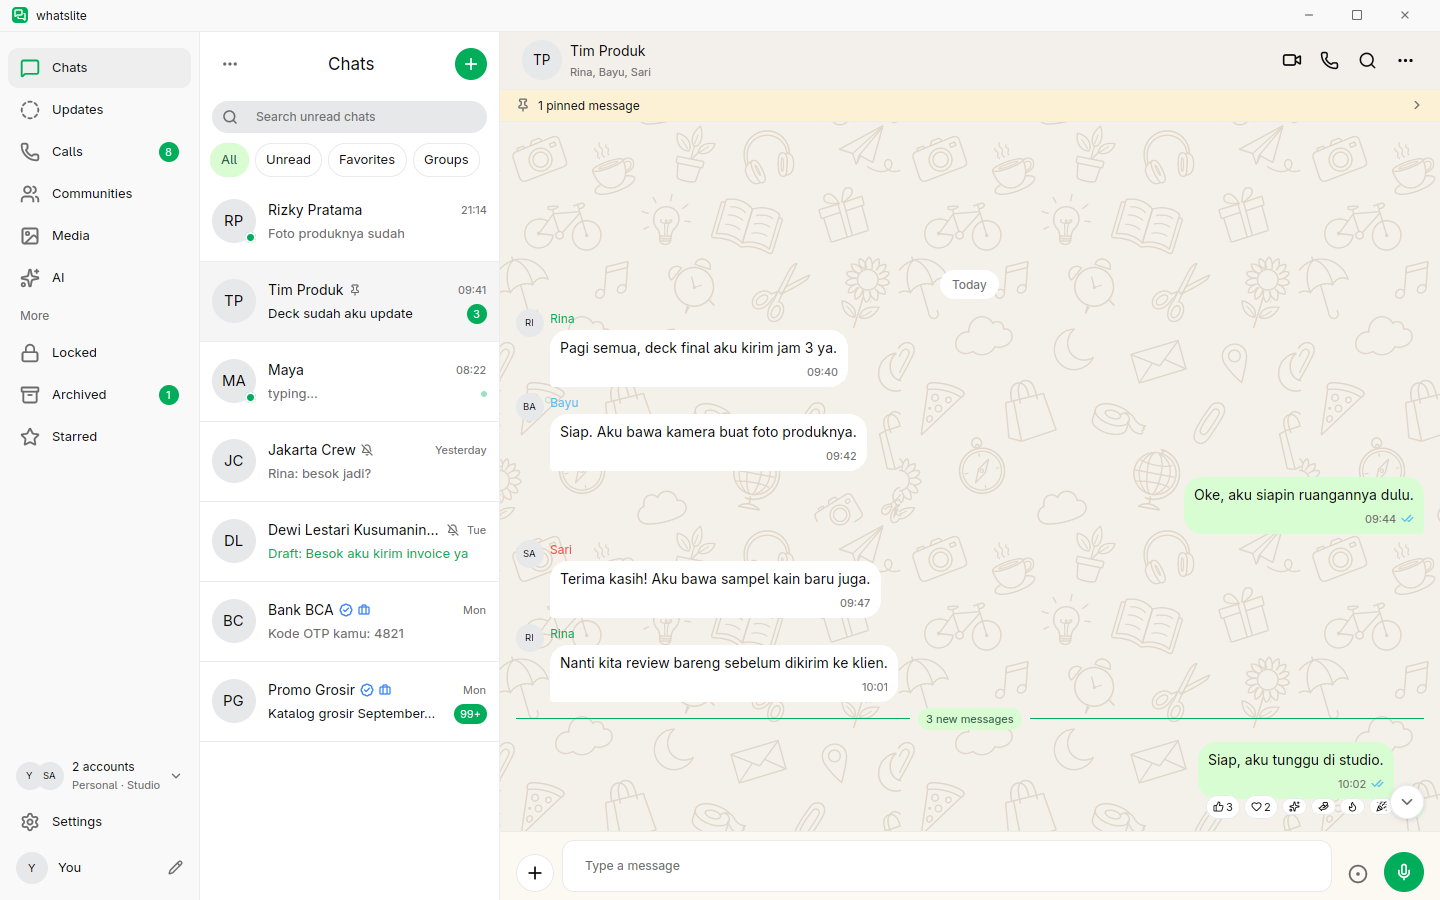
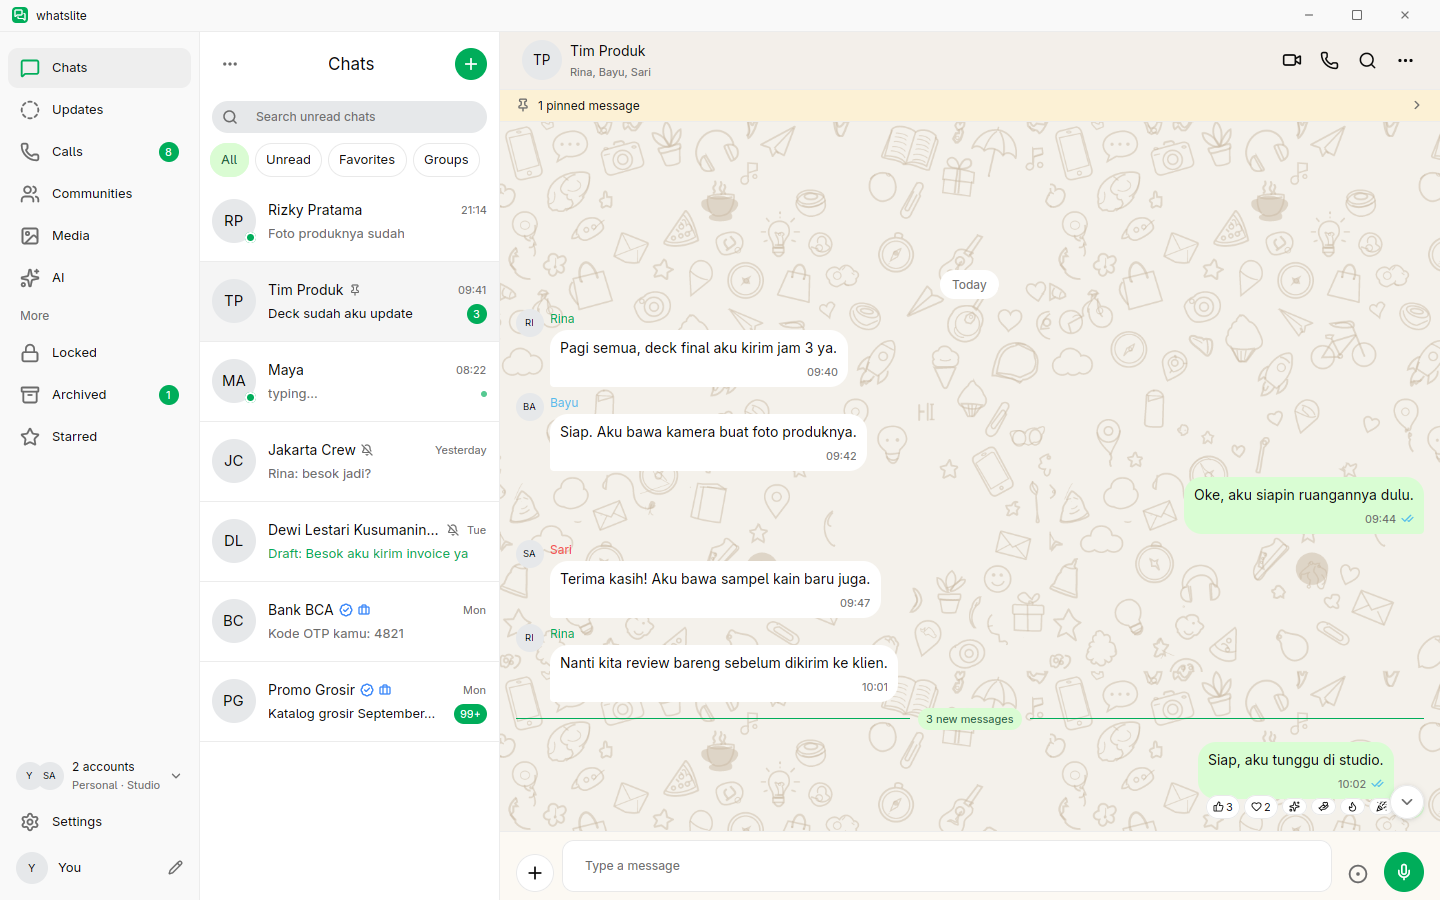
docs(design): refresh dense doodle proof and QA captures

diff --git a/design/urutan-judul.md b/design/urutan-judul.md
@@ -116,32 +116,49 @@ UI icons. The old tile was a repeated Material Symbols grid; it read as
 
 Spec:
 
-- 400 × 400 logical pattern, irregular scatter — not a 5 × 5 grid;
-- the canvas component is an 800 × 800 2×2 proof of the same pattern;
+- 800 × 800 logical pattern, dense irregular scatter — not a grid;
 - edge objects are wrapped to the opposite edge, so the repeat is seamless;
-- thin uniform strokes (~2.5px in the 800 source; 1.25 logical at 400),
-  rounded caps/joins;
-- objects: camera, coffee, plant, headphones, paper plane, bicycle, lightbulb,
-  book, gift, umbrella, music note, alarm clock, scissors, sunflower, cloud,
-  moon, envelope, pin, pizza, shopping bag, tape, paperclip, compass, globe;
-- no fill, no shading, no text, no emoji;
-- one stroke `#D8CCBC` on `$wl-bg-conversation`; dark mode keeps the same
-  tile at 12% opacity;
-- the app is clipped and repeated by the conversation stage at a 400pt
-  logical step;
-- the canvas tiles at 800pt; each 800 tile contains a 2×2 proof, so the visible
-  density matches the 400pt app repeat;
+- ~100 small objects, symbols, stars, hearts and dots per source tile; most
+  objects are 10–50px, packed tightly with no large empty gaps;
+- one stroke `#D8CCBC` at 50% alpha on `$wl-bg-conversation`;
+- dark mode keeps the same pattern at a 12% layer opacity;
+- the app repeats the source at a **550pt logical step**. This was selected in
+  the doodle preview app after comparing 800/700/600/550/400: 800 was too
+  sparse, 400 too repetitive, 550 closest to the reference density;
+- the canvas component is an 800pt proof; the app density is documented here
+  and shown by the preview app;
 - `desktop/build.rs` rasterises the original SVG at 1×, 2× and 3×
-  (400/800/1200); the runtime picks the matching texture, so 1440 and 1920
-  stay sharp at 3× scale;
-- opacity is 100% in light mode and 12% in dark mode.
+  (800/1600/2400); the runtime scales the texture to the 550pt repeat and
+  picks the matching texture, so 1440 and 1920 stay sharp at 3× scale;
+- light line `#C9B9A3` at 50% alpha; dark line `#D8CCBC` at 12% layer opacity.
 
 Do not re-generate the artwork per screen. It is one reusable `Wallpaper / Doodle
 Tile` (`IqUX9`) instance in the canvas and one texture cache in the app. The
 vector source is `desktop/assets/wallpaper/doodle.svg`; the canvas uses the
 matching `machine/wallpaper-doodle.png` (referenced as
-`./wallpaper-doodle-400.png` next to the `.pen`) because the `.pen` stores textures
+`./wallpaper-doodle-dense.png` next to the `.pen`) because the `.pen` stores textures
 as image fills. This is original artwork, not a WhatsApp asset.
+
+### Raster wallpaper or SVG?
+
+**Decision: SVG is the master; the app uses a build-time raster tile with a
+runtime tint.** A full raster wallpaper is only for custom user-uploaded images.
+
+Why:
+
+- A full wallpaper locks the colour into pixels. A theme change would need a new
+  asset, and the reference wallpaper cannot be recoloured per theme.
+- At 1920 @3× a full-bleed wallpaper needs a 5760×3240 source; a tile does not.
+- A wallpaper is not intrinsically seamless; the doodle tile is edge-wrapped.
+- The pre-rendered tile is a monochrome alpha mask. `theme::wallpaper_style`
+  supplies the line colour and layer opacity, so light, dark and future
+  wallpaper themes share one artwork.
+- Runtime SVG rasterisation was measured at ~8s for 3×; build-time
+  rasterisation plus tint is fast and cached.
+
+If a future design wants a fixed, non-themeable photographic or illustrated
+wallpaper, use a raster asset for that option and keep the doodle as the
+default SVG-based theme.
 
 ---
 
@@ -251,7 +268,41 @@ opening a chat.
 
 ---
 
-## 9. Acceptance checklist
+## 9. Loading, empty and error states
+
+Every data list uses the same contract:
+
+| State | Behaviour |
+|---|---|
+| Loading | Skeleton rows that mirror the real row. No blank panel, no spinner-only screen. |
+| Failed | Red alert icon, one-line cause, `Retry`. Never reuse the empty copy. |
+| Empty | Specific copy for that list + one action where one exists. |
+| Ready | Real rows. |
+
+Covered lists: chat list, calls, updates, communities, media, AI, contacts,
+archived, starred, locked, broadcasts. The media grid has skeleton tiles.
+The conversation has its own bubble skeleton.
+
+Conversation states:
+
+- **Loading** — date-pill + incoming/outgoing bubble skeletons; composer is
+  hidden until the thread is ready.
+- **Failed** — white error card with red alert, `Could not load messages`,
+  `Check your connection and try again.`, and `Retry`; composer hidden.
+- **Ready** — messages, pinned bar, search bar and composer.
+
+Rules:
+
+- `Retry` returns the surface to `Ready`; it never opens a toast and stops.
+- The skeleton appears only while the state is `Loading`. The backend should set
+  that state after a short delay (the design target is 200ms) so fast responses
+  do not flash a skeleton.
+- An error is never presented as an empty state. Use the red alert + Retry.
+- Read-only form value rows do **not** show a chevron. Only rows that open a
+  surface or run an action have one.
+- The app exposes `WHATSLITE_LIST_STATE=loading|failed` for QA captures.
+
+## 10. Acceptance checklist
 
 - [ ] Avatar is top-aligned with the sender title and never clipped.
 - [ ] Hover shows the chevron; click opens the dropdown next to the title.
@@ -261,5 +312,8 @@ opening a chat.
 - [ ] Usernames are secondary and never overwrite a saved name.
 - [ ] Doodle is hand-drawn line art, subtle, tiled and readable in dark mode.
 - [ ] Demo sheet lists 12 scenarios; every visible button reaches a surface.
+- [ ] Every list shows skeleton, error + Retry, and a specific empty state.
+- [ ] Conversation shows bubble skeleton and error card; composer hidden until ready.
+- [ ] Errors use the red alert icon, never the empty-state Zap icon.
 - [ ] No mock database was added; the service boundary is the only data path.
 - [ ] `cargo check -p whatslite-desktop` passes.

diff --git a/design/qa/PROOF.md b/design/qa/PROOF.md
@@ -1,0 +1,81 @@
+# Proof — doodle wallpaper + UI pass
+
+## What was run
+
+```text
+$ cargo test -p whatslite-desktop --quiet
+running 21 tests
+.....................
+test result: ok. 21 passed; 0 failed; 0 ignored; 0 measured; 0 filtered out
+
+$ cargo build -p whatslite-desktop
+Finished `dev` profile [unoptimized + debuginfo] ...
+
+$ cargo build -p doodle-preview
+Finished `dev` profile [unoptimized + debuginfo] ...
+```
+
+## What is implemented
+
+- `desktop/src/wallpaper.rs:26` — `TILE_LOGICAL = 550.0`.
+- `desktop/src/theme.rs` — `wallpaper_style(dark)`:
+  - light line `#C9B9A3`
+  - dark line `#D8CCBC`, layer 0.12
+- `desktop/build.rs` — alpha-mask PNGs at 800/1600/2400 (1x/2x/3x).
+- `desktop/src/wallpaper.rs` — decodes, tints, caches per (scale, line), prewarms.
+- `desktop/assets/wallpaper/doodle.svg` — original dense source; edge-wrapped.
+- `crates/doodle-preview` — standalone comparison app with light/dark/reference panels.
+
+## Screenshots (native windows, not canvas renders)
+
+| File | Size | Shows |
+|---|---:|---|
+| `design/qa/1440-group-light.png` | 1440×900 | App, 550pt repeat, light |
+| `design/qa/1440-group-dark.png` | 1440×900 | App, 550pt repeat, dark |
+| `design/qa/1920-group-light.png` | 1920×1008 | App, 1920 width |
+| `design/qa/1440-header-hover.png` | 1440×900 | Hover chevron |
+| `design/qa/1440-header-menu.png` | 1440×900 | Dropdown |
+| `design/qa/1440-chat-list-menu.png` | 1440×900 | Chat list menu |
+| `design/qa/1440-contact-profile.png` | 1440×900 | Profile overlay |
+| `design/qa/1440-group-info.png` | 1440×900 | Group info |
+| `design/qa/1440-usecase-demo.png` | 1440×900 | 12-scenario demo |
+| `design/qa/1440-loading-skeleton.png` | 1440×900 | List + conversation skeleton |
+| `design/qa/1440-error-state.png` | 1440×900 | Error + Retry, composer hidden |
+| `design/qa/1440-media-loading.png` | 1440×900 | Media skeleton |
+| `design/qa/1440-media-error.png` | 1440×900 | Media error |
+| `design/qa/1440-readonly-fields.png` | 1440×900 | Read-only fields without chevrons |
+| `design/qa/1440-rtl.png` | 1440×900 | RTL |
+| `design/qa/1440-text-125.png` | 1440×900 | 125% text |
+
+## How the screenshots were captured
+
+Native GPUI app on Linux/X11, window client area captured with `XGetImage`
+(not the pen canvas, not a mock render):
+
+- app window: 1440×900
+- 1920 run: resize client to 1920×1080; X11 frame clamps the captured height
+  to 1008 because the screen is 1080 high. Width is 1920.
+- preview app: 1500×900, three columns.
+
+## Preview comparison
+
+```bash
+DOODLE_REFERENCE=/path/to/whatsapp-reference.jpg \
+  cargo run -p doodle-preview
+```
+
+It renders light, dark, and the reference side by side. `DOODLE_TILE` and
+`DOODLE_LINE` allow comparing 800/700/600/550/400 without touching the app.
+
+The reference image is not committed to the repository; it stays local.
+
+## 3× proof
+
+`cargo test -p whatslite-desktop` includes:
+
+- `wallpaper::tests::picks_the_1x_2x_3x_texture`
+- `wallpaper::tests::pre_rendered_tiles_tint_at_1x_2x_3x`
+
+They assert texture edges 800/1600/2400, tint channel order, and visible pixels.
+A 3× screenshot cannot be captured in this session because the X11 display runs
+at scale 1.

diff --git a/design/qa/README.md b/design/qa/README.md
@@ -1,12 +1,15 @@
 # QA captures — identity, doodle, and clickable demo
 
 Captured from the native app on Linux/X11 at 1440×900 unless noted. These are
-review artifacts, not design sources.
+review artifacts, not design sources. The doodle is a build-time alpha mask
+tinted at runtime by `theme::wallpaper_style`; light and dark share the artwork.
+The app repeats the 800pt source at 550pt; the canvas shows an 800pt proof.
 
 | File | What it proves |
 |---|---|
-| `1440-group-light.png` | Group chat: avatars top-aligned with sender names, 400pt doodle repeat, 1440 layout. |
+| `1440-group-light.png` | Group chat: avatars top-aligned with sender names, dense 550pt doodle repeat (800pt source), 1440 layout. |
 | `1440-group-dark.png` | Same screen in dark mode; doodle at 12% opacity. |
+| `1440-header-hover.png` | Hover/identity state: chevron visible next to the group name, hover surface. |
 | `1440-header-menu.png` | Hover state chevron and the dropdown beside/under the group title. |
 | `1440-header-menu-dark.png` | Header dropdown in dark mode. |
 | `1440-chat-list-menu.png` | The previously dead ellipsis now opens the Chats menu. |
@@ -24,6 +27,7 @@ review artifacts, not design sources.
 WHATSLITE_CHAT=1 cargo run -p whatslite-desktop
 
 # header menu / chat list menu / profile / demo
+WHATSLITE_CHAT=1 WHATSLITE_HEADER_HOVER=1 cargo run -p whatslite-desktop
 WHATSLITE_CHAT=1 WHATSLITE_OVERLAY=header-menu cargo run -p whatslite-desktop
 WHATSLITE_CHAT=1 WHATSLITE_OVERLAY=chat-list-menu cargo run -p whatslite-desktop
 WHATSLITE_CHAT=1 WHATSLITE_OVERLAY=contact-profile cargo run -p whatslite-desktop
@@ -36,5 +40,25 @@ WHATSLITE_CHAT=1 WHATSLITE_TEXT_SCALE=1.25 cargo run -p whatslite-desktop
 ```
 
 The 3× path is covered by `wallpaper::tests::picks_the_1x_2x_3x_texture` and
-`wallpaper::tests::pre_rendered_tiles_have_the_expected_sizes` (400/800/1200).
+`wallpaper::tests::pre_rendered_tiles_have_the_expected_sizes` (800/1600/2400).
 A 3× screenshot is not captured because this session runs at scale 1.
+
+## Loading / empty / error
+
+| File | What it proves |
+|---|---|
+| `1440-loading-skeleton.png` | Chat list skeleton rows + conversation bubble skeleton; composer hidden until ready. |
+| `1440-error-state.png` | Chat list and conversation error cards, red alert icon, Retry; composer hidden until ready. |
+| `1440-media-loading.png` | Media list skeleton rows + media grid skeleton tiles. |
+| `1440-media-error.png` | Media list and media detail error states with Retry. |
+| `1440-readonly-fields.png` | Form value rows are read-only and have no chevron; the Next button is the action. |
+
+Reproduce:
+
+```bash
+WHATSLITE_CHAT=1 WHATSLITE_LIST_STATE=loading cargo run -p whatslite-desktop
+WHATSLITE_CHAT=1 WHATSLITE_LIST_STATE=failed  cargo run -p whatslite-desktop
+```
+
+Every list uses the same `list_body` contract: skeleton → failed (red alert + Retry) →
+empty (specific copy) → ready. The conversation has its own bubble skeleton and error card.

diff --git a/design/00-START-HERE.md b/design/00-START-HERE.md
@@ -22,7 +22,7 @@ A complete UI/UX design for **WhatsLite**, an independent WhatsApp-Desktop-style
 10. `urutan-judul.md` — title order, hover menu, profile access, avatar/doodle fixes, clickable demo, backend and number/username rules
 11. `brand/` — logo SVG/PNG/ICO + usage rules
 
-The `.pen` references `./wallpaper-doodle-400.png`; keep that PNG next to the `.pen` file. The handoff copy is `machine/wallpaper-doodle.png`. The vector source is `desktop/assets/wallpaper/doodle.svg`. The canvas shows an 800pt 2×2 proof; the app repeats the 400pt pattern.
+The `.pen` references `./wallpaper-doodle-550.png`; keep that PNG next to the `.pen` file. The handoff copy is `machine/wallpaper-doodle.png`. The vector source is `machine/wallpaper-doodle-source.svg`. The canvas uses an 800pt proof; the app rasterises the source at build time and repeats it at 800pt.
 
 ## Hard rules
 1. **Tokens only.** Every colour comes from `machine/tokens.json` (28 tokens, light+dark). No hex literal in view code. Dark mode is a value swap, never a second UI.
@@ -43,7 +43,7 @@ machine/theme.json          same, as a palette for GPUI/other
 machine/components.json     54 masters with ids, sizes, children
 machine/screens.json        38 pages with ids and sections
 machine/strings.json        every visible string, grouped by page
-machine/wallpaper-doodle.png  seamless 400 pattern · 800 2×2 proof used by the .pen image fill
+machine/wallpaper-doodle.png  dense seamless 800 pattern used by the .pen image fill
 brand/                      logo: 3 SVG + 3 PNG + ico + README + export.sh
 docs/                       deep specs (state matrix, audits, plans)
 qa/                         native app QA captures + reproduce flags

diff --git a/design/02-COMPONENTS.md b/design/02-COMPONENTS.md
@@ -4,7 +4,7 @@
 
 | Component | Size | Instances | Key children |
 |---|---|---|---|
-| `Wallpaper / Doodle Tile` | 800×800 | 68 | 2×2 proof of a seamless 400pt pattern; image fill `wallpaper-doodle.png`; vector source `desktop/assets/wallpaper/doodle.svg` |
+| `Wallpaper / Doodle Tile` | 800×800 | 68 | dense seamless source, 800pt canvas proof (app repeats at 800pt); image fill `wallpaper-doodle.png`; vector source `machine/wallpaper-doodle-source.svg` |
 | `App / Conversation / Bubble / In` | 360×None | 39 | Message, Meta |
 | `App / Titlebar / Windows` | fill_container×32 | 27 | Title Group, Window Controls |
 | `App / Sidebar / Windows` | 200×796 | 24 | App / Sidebar / Nav Item / Chats / Selected, App / Sidebar / Nav Item / Updates, App / Sidebar / Nav Item / Calls, App / Sidebar / Nav Item / Communities, App / Sidebar / Nav Item / Media, App / Sidebar / Nav Item / AI |
